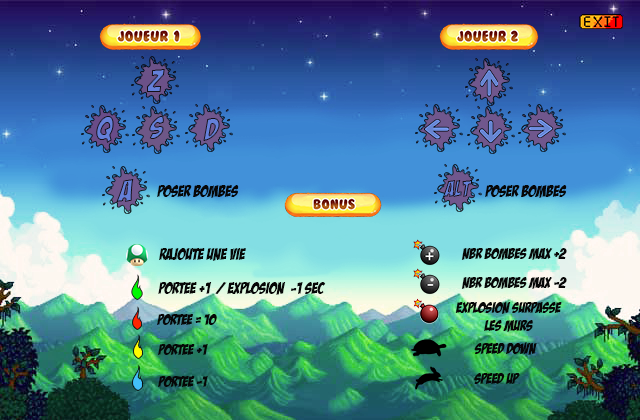
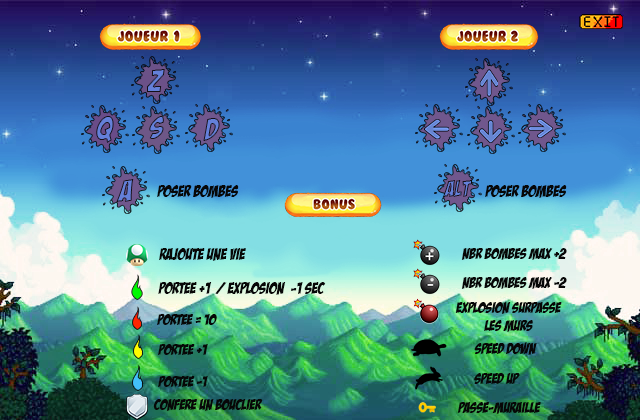
Dernière version

Changed region(s): [[0.1875, 0.9286, 0.4062, 1.0], [0.7188, 0.9595, 0.8438, 0.9905], [0.6562, 0.9595, 0.6875, 0.9905]]

diff --git a/src/bbman/Terrain.java b/src/bbman/Terrain.java
@@ -104,8 +104,8 @@ public class Terrain
 	
 	public void dessinerPlateau (Joueur [] joueur, int nb)
 	{
-		int orgx=this.longueur;
-		int orgy=this.hauteur;
+		int x=this.longueur;
+		int y=this.hauteur;
 
 		// On dessine le plateau de jeu en fonction de la valeur du type de la case
 		
@@ -115,82 +115,82 @@ public class Terrain
 			{	
 				if (this.plateau[i][j]==0) //Bloc vert
 				{	
-					StdDraw.picture((i*2*this.longueur)+orgx,(j*2*this.hauteur)+orgy,"vert.png",40,40);
+					StdDraw.picture((i*2*this.longueur)+x,(j*2*this.hauteur)+y,"vert.png",40,40);
 				}
 				else if (this.plateau[i][j]==2) //Bloc orange
 				{	
-					StdDraw.picture((i*2*this.longueur)+orgx,(j*2*this.hauteur)+orgy,"orange.png",40,40);
+					StdDraw.picture((i*2*this.longueur)+x,(j*2*this.hauteur)+y,"orange.png",40,40);
 				}
 				else if (this.plateau[i][j]==1) //Mur gris
 				{	
-					StdDraw.picture((i*2*this.longueur)+orgx,(j*2*this.hauteur)+orgy,"bloc.png",40,40);
+					StdDraw.picture((i*2*this.longueur)+x,(j*2*this.hauteur)+y,"bloc.png",40,40);
 				}
 				else if (this.plateau[i][j]>=100) //Bombe en cours d'explosion
 				{	
-					StdDraw.picture((i*2*this.longueur)+orgx,(j*2*this.hauteur)+orgy,"vert.png",40,40);
-					StdDraw.picture((i*2*this.longueur)+orgx, (j*2*this.hauteur)+orgy, "feu.png", 40, 40);
+					StdDraw.picture((i*2*this.longueur)+x,(j*2*this.hauteur)+y,"vert.png",40,40);
+					StdDraw.picture((i*2*this.longueur)+x, (j*2*this.hauteur)+y, "feu.png", 40, 40);
 				}
 				else if (this.plateau[i][j]==10) //Flamme bleue
 				{
-					StdDraw.picture((i*2*this.longueur)+orgx,(j*2*this.hauteur)+orgy,"vert.png",40,40);
-					StdDraw.picture((i*2*this.longueur)+orgx,(j*2*this.hauteur)+orgy,"flammebleue.png",40,40);
+					StdDraw.picture((i*2*this.longueur)+x,(j*2*this.hauteur)+y,"vert.png",40,40);
+					StdDraw.picture((i*2*this.longueur)+x,(j*2*this.hauteur)+y,"flammebleue.png",40,40);
 				}
 				else if (this.plateau[i][j]==11) //Flamme jaune
 				{
-					StdDraw.picture((i*2*this.longueur)+orgx,(j*2*this.hauteur)+orgy,"vert.png",40,40);
-					StdDraw.picture((i*2*this.longueur)+orgx,(j*2*this.hauteur)+orgy,"flammejaune.png",40,40);
+					StdDraw.picture((i*2*this.longueur)+x,(j*2*this.hauteur)+y,"vert.png",40,40);
+					StdDraw.picture((i*2*this.longueur)+x,(j*2*this.hauteur)+y,"flammejaune.png",40,40);
 				}
 				else if (this.plateau[i][j]==12) //Flamme rouge
 				{	
-					StdDraw.picture((i*2*this.longueur)+orgx,(j*2*this.hauteur)+orgy,"vert.png",40,40);
-					StdDraw.picture((i*2*this.longueur)+orgx,(j*2*this.hauteur)+orgy,"flammerouge.png",40,40);
+					StdDraw.picture((i*2*this.longueur)+x,(j*2*this.hauteur)+y,"vert.png",40,40);
+					StdDraw.picture((i*2*this.longueur)+x,(j*2*this.hauteur)+y,"flammerouge.png",40,40);
 				}
 				else if (this.plateau[i][j]==13) //Bombe rouge
 				{	
-					StdDraw.picture((i*2*this.longueur)+orgx,(j*2*this.hauteur)+orgy,"vert.png",40,40);
-					StdDraw.picture((i*2*this.longueur)+orgx,(j*2*this.hauteur)+orgy,"bomberouge.png",40,40);
+					StdDraw.picture((i*2*this.longueur)+x,(j*2*this.hauteur)+y,"vert.png",40,40);
+					StdDraw.picture((i*2*this.longueur)+x,(j*2*this.hauteur)+y,"bomberouge.png",40,40);
 				}
 				else if (this.plateau[i][j]==14) //+1 vie
 				{	
-					StdDraw.picture((i*2*this.longueur)+orgx,(j*2*this.hauteur)+orgy,"vert.png",40,40);
-					StdDraw.picture((i*2*this.longueur)+orgx,(j*2*this.hauteur)+orgy,"oneup.png",40,40);
+					StdDraw.picture((i*2*this.longueur)+x,(j*2*this.hauteur)+y,"vert.png",40,40);
+					StdDraw.picture((i*2*this.longueur)+x,(j*2*this.hauteur)+y,"oneup.png",40,40);
 				}
 				else if (this.plateau[i][j]==15) //Ralentir le joueur (tortue)
 				{	
-					StdDraw.picture((i*2*this.longueur)+orgx,(j*2*this.hauteur)+orgy,"vert.png",40,40);
-					StdDraw.picture((i*2*this.longueur)+orgx,(j*2*this.hauteur)+orgy,"slow.png",40,40);
+					StdDraw.picture((i*2*this.longueur)+x,(j*2*this.hauteur)+y,"vert.png",40,40);
+					StdDraw.picture((i*2*this.longueur)+x,(j*2*this.hauteur)+y,"slow.png",40,40);
 				}
 				else if (this.plateau[i][j]==16) //Accéler le joueur (lièvre)
 				{	
-					StdDraw.picture((i*2*this.longueur)+orgx,(j*2*this.hauteur)+orgy,"vert.png",40,40);
-					StdDraw.picture((i*2*this.longueur)+orgx,(j*2*this.hauteur)+orgy,"speed.png",40,40);
+					StdDraw.picture((i*2*this.longueur)+x,(j*2*this.hauteur)+y,"vert.png",40,40);
+					StdDraw.picture((i*2*this.longueur)+x,(j*2*this.hauteur)+y,"speed.png",40,40);
 				}
 				else if (this.plateau[i][j]==17) //+2 bombes
 				{	
-					StdDraw.picture((i*2*this.longueur)+orgx,(j*2*this.hauteur)+orgy,"vert.png",40,40);
-					StdDraw.picture((i*2*this.longueur)+orgx,(j*2*this.hauteur)+orgy,"bombeplus.png",40,40);
+					StdDraw.picture((i*2*this.longueur)+x,(j*2*this.hauteur)+y,"vert.png",40,40);
+					StdDraw.picture((i*2*this.longueur)+x,(j*2*this.hauteur)+y,"bombeplus.png",40,40);
 				}
 				else if (this.plateau[i][j]==18) //-2 bombes
 				{	
-					StdDraw.picture((i*2*this.longueur)+orgx,(j*2*this.hauteur)+orgy,"vert.png",40,40);
-					StdDraw.picture((i*2*this.longueur)+orgx,(j*2*this.hauteur)+orgy,"bombemoins.png",40,40);
+					StdDraw.picture((i*2*this.longueur)+x,(j*2*this.hauteur)+y,"vert.png",40,40);
+					StdDraw.picture((i*2*this.longueur)+x,(j*2*this.hauteur)+y,"bombemoins.png",40,40);
 				}
 				else if (this.plateau[i][j]==19) //Flamme verte
 				{	
-					StdDraw.picture((i*2*this.longueur)+orgx,(j*2*this.hauteur)+orgy,"vert.png",40,40);
-					StdDraw.picture((i*2*this.longueur)+orgx,(j*2*this.hauteur)+orgy,"flammeverte.png",40,40);
+					StdDraw.picture((i*2*this.longueur)+x,(j*2*this.hauteur)+y,"vert.png",40,40);
+					StdDraw.picture((i*2*this.longueur)+x,(j*2*this.hauteur)+y,"flammeverte.png",40,40);
 				}
 				
 				else if (this.plateau[i][j]==20) //Passe muraille
 				{	
-					StdDraw.picture((i*2*this.longueur)+orgx,(j*2*this.hauteur)+orgy,"vert.png",40,40);
-					StdDraw.picture((i*2*this.longueur)+orgx,(j*2*this.hauteur)+orgy,"cle.png",40,40);
+					StdDraw.picture((i*2*this.longueur)+x,(j*2*this.hauteur)+y,"vert.png",40,40);
+					StdDraw.picture((i*2*this.longueur)+x,(j*2*this.hauteur)+y,"cle.png",40,40);
 				}
 				
 				else if (this.plateau[i][j]==21) //Bouclier
 				{	
-					StdDraw.picture((i*2*this.longueur)+orgx,(j*2*this.hauteur)+orgy,"vert.png",40,40);
-					StdDraw.picture((i*2*this.longueur)+orgx,(j*2*this.hauteur)+orgy,"bouclier.png",40,40);
+					StdDraw.picture((i*2*this.longueur)+x,(j*2*this.hauteur)+y,"vert.png",40,40);
+					StdDraw.picture((i*2*this.longueur)+x,(j*2*this.hauteur)+y,"bouclier.png",40,40);
 				}
 			}
 		}

diff --git a/src/bbman/main.java b/src/bbman/main.java
@@ -8,20 +8,48 @@ public class main
 {		
 	public static void main(String[] args) 
 	{	
+		// Initialisation des variables
 		int nbColonnes=21;
 		int nbLignes=17;
-		int longueurCase=20;
-		int hauteurCase=20;
+		int longueurCase=20; // en pixels
+		int hauteurCase=20; // en pixels
 		int nbJoueurs=2;
 		
-		StdDraw.setCanvasSize(longueurCase*nbColonnes*2,hauteurCase*nbLignes*2);
-		StdDraw.setXscale(0,longueurCase*nbColonnes*2);
-		StdDraw.setYscale(0,hauteurCase*nbLignes*2);
-		
+		// Musique de fond du jeu
 		Audio sonjeu = new Audio("jeu.wav");
 		sonjeu.play();
+		
+		// Création du terrain et des joueurs
+		Terrain terrain = new Terrain(nbColonnes,nbLignes,longueurCase,hauteurCase);
+		Joueur[] joueur = new Joueur[nbJoueurs] ;
+		
+		// Initialisation du terrain et des joueurs
+		initialisation(longueurCase, nbColonnes, hauteurCase, nbLignes, nbJoueurs, joueur, terrain);
+		
+		// Affichage du menu
+		menu(longueurCase, nbColonnes, hauteurCase, nbLignes, sonjeu);
+		
+		// Plateau initial
+		terrain.dessinerPlateau(joueur,nbJoueurs);
+		
+		// Mise à jour en continu du terrain
+		miseAJour(joueur, nbJoueurs, terrain, sonjeu);
+		
+		// Lorsqu'un des deux joueurs n'est plus en vie
+		finDePartie(joueur, terrain, sonjeu);
+	}
 
+	
+	
+	
+	
+	// Menu
+	
+	public static void menu(int longueurCase, int nbColonnes, int hauteurCase ,int nbLignes, Audio sonjeu)
+	{
 		StdDraw.picture(longueurCase*nbColonnes,hauteurCase*nbLignes,"menu.png",longueurCase*nbColonnes*2,hauteurCase*nbLignes*2);
+		StdDraw.picture(30, 30, "couperson.png", 30, 30);
+		
 		boolean commencerJeu = false;
 		boolean commandes = false;
 		
@@ -50,6 +78,7 @@ public class main
 				{
 					commandes = true;
 					StdDraw.picture(longueurCase*nbColonnes,hauteurCase*nbLignes,"commandes.png",longueurCase*nbColonnes*2,hauteurCase*nbLignes*2);
+					StdDraw.picture(30, 30, "couperson.png", 30, 30);
 				}
 			}
 			
@@ -62,26 +91,55 @@ public class main
 				{
 					commandes = false;
 					StdDraw.picture(longueurCase*nbColonnes,hauteurCase*nbLignes,"menu.png",longueurCase*nbColonnes*2,hauteurCase*nbLignes*2);
+					StdDraw.picture(30, 30, "couperson.png", 30, 30);
+				}
+			}
+			
+			if(StdDraw.mousePressed())
+			{
+				if(StdDraw.mouseX()>15
+				&& StdDraw.mouseX()<45
+				&& StdDraw.mouseY()>15
+				&& StdDraw.mouseY()<45)
+				{
+					sonjeu.stop();
 				}
 			}
 			
 		}
-		// Création du terrain et des joueurs
-		
-		Terrain terrain = new Terrain(nbColonnes,nbLignes,longueurCase,hauteurCase);
-		Joueur[] joueur = new Joueur[nbJoueurs] ;
+	}
+	
+	// Initialisation StdDraw + joueur/terrain
+	
+	public static void initialisation(int longueurCase, int nbColonnes, int hauteurCase ,int nbLignes, int nbJoueurs, Joueur[] joueur, Terrain terrain)
+	{
+		StdDraw.setCanvasSize(longueurCase*nbColonnes*2,hauteurCase*nbLignes*2);
+		StdDraw.setXscale(0,longueurCase*nbColonnes*2);
+		StdDraw.setYscale(0,hauteurCase*nbLignes*2);
 	
 		for (int i=0;i<nbJoueurs;i++)
 		{	
 			joueur[i]=new Joueur(terrain);
 			joueur[i].positionInitiale(i+1,nbColonnes,nbLignes,longueurCase,hauteurCase);
 		}
-		
-		
-		terrain.dessinerPlateau(joueur,nbJoueurs);
-
+	}
+	
+	// Mise à jour plateau de jeu
+	
+	public static void miseAJour(Joueur[] joueur, int nbJoueurs, Terrain terrain, Audio sonjeu)
+	{
 		while(joueurEnVie(joueur))
 		{	
+			if(StdDraw.mousePressed())
+			{
+				if(StdDraw.mouseX()>15
+				&& StdDraw.mouseX()<45
+				&& StdDraw.mouseY()>15
+				&& StdDraw.mouseY()<45)
+				{
+					sonjeu.stop();
+				}
+			}
 			int mouvement = deplacement(joueur, nbJoueurs,terrain);
 			
 			for (int i=0; i<nbJoueurs; i++)
@@ -98,17 +156,12 @@ public class main
 			StdDraw.show();
 			StdDraw.pause(5);
 		}
-		
-		// Lorsqu'un des deux joueurs n'est plus en vie
-		sonjeu.stop();
-		Audio sonperdu = new Audio("perdu.wav");
-		sonperdu.play();
-		finDePartie(joueur, terrain);
 	}
-
+	
+	
 	// Key Listener
 	
-	public static int deplacement(Joueur [] joueur, int nbJoueurs, Terrain terrain)
+	public static int deplacement(Joueur[] joueur, int nbJoueurs, Terrain terrain)
 	{	
 		int isTyped=0;
 	
@@ -181,8 +234,11 @@ public class main
 	
 	// Sinon on finit la partie
 	
-	public static void finDePartie(Joueur[] joueur, Terrain terrain)
+	public static void finDePartie(Joueur[] joueur, Terrain terrain, Audio sonjeu)
 	{
+		sonjeu.stop();
+		Audio sonperdu = new Audio("perdu.wav");
+		sonperdu.play();
 		
 		String joueurGagnant;
 		if(joueur[0].getViesRestante()<=0)
@@ -269,7 +325,7 @@ public class main
 				}
 				if(joueur[i].getBouclier() == 1)
 				{
-					StdDraw.picture(20, 350, "cle.png", 20, 20);
+					StdDraw.picture(20, 350, "bouclier.png", 20, 20);
 					StdDraw.text(22, 330, "✓");
 				}
 			}
@@ -312,7 +368,7 @@ public class main
 				}
 				if(joueur[i].getBouclier() == 1)
 				{
-					StdDraw.picture(820, 310, "cle.png", 20, 20);
+					StdDraw.picture(820, 310, "bouclier.png", 20, 20);
 					StdDraw.text(822, 290, "✓");
 				}
 			}

diff --git a/src/bbman/Bombe.java b/src/bbman/Bombe.java
@@ -156,7 +156,7 @@ public class Bombe
 	{
 		int conditionArret = (int)(Math.random()*100);
 		int type_bonus = 0;
-		if (conditionArret<=100)
+		if (conditionArret<=20)
 		{
 			int newTest=(int)(Math.random()*12);
 			switch(newTest)
@@ -214,7 +214,7 @@ public class Bombe
 	}
 
 	
-// Lorsque la bombe explose 
+	// Lorsque la bombe explose 
 	
 	public Terrain boum(Terrain terrain, Joueur[] joueur, boolean bombeDeBase)
 	{	
@@ -249,7 +249,7 @@ public class Bombe
 				}
 			}
 			
-			else if(terrain.getPlateau(this.x+i,this.y)>=10 && terrain.getPlateau(this.x+i,this.y)<=19) // S'il y avait déjà un bonus sur la case
+			else if(terrain.getPlateau(this.x+i,this.y)>=10 && terrain.getPlateau(this.x+i,this.y)<=21) // S'il y avait déjà un bonus sur la case
 			{
 				terrain.setPlateau(this.x+i, this.y, terrain.getPlateau(this.x+i,this.y));
 			}
@@ -302,7 +302,7 @@ public class Bombe
 				}
 			}
 			
-			else if(terrain.getPlateau(this.x,this.y-i)>=10 && terrain.getPlateau(this.x,this.y-i)<=19)
+			else if(terrain.getPlateau(this.x,this.y-i)>=10 && terrain.getPlateau(this.x,this.y-i)<=21)
 			{
 				terrain.setPlateau(this.x, this.y-i, terrain.getPlateau(this.x,this.y-i));
 			}
@@ -324,7 +324,7 @@ public class Bombe
 			
 			if(bombeDeBase)
 			{
-			verifBombeDansPortee(this.x,this.y-i,joueur,terrain);
+				verifBombeDansPortee(this.x,this.y-i,joueur,terrain);
 			}
 			
 		}
@@ -356,7 +356,7 @@ public class Bombe
 
 			}
 			
-			else if(terrain.getPlateau(this.x-i,this.y)>=10 && terrain.getPlateau(this.x-i,this.y)<=19)
+			else if(terrain.getPlateau(this.x-i,this.y)>=10 && terrain.getPlateau(this.x-i,this.y)<=21)
 			{
 				terrain.setPlateau(this.x-i, this.y, terrain.getPlateau(this.x-i,this.y));
 			}
@@ -409,7 +409,7 @@ public class Bombe
 				}
 			}
 			
-			else if(terrain.getPlateau(this.x,this.y+i)>=10 && terrain.getPlateau(this.x,this.y+i)<=19)
+			else if(terrain.getPlateau(this.x,this.y+i)>=10 && terrain.getPlateau(this.x,this.y+i)<=21)
 			{
 				terrain.setPlateau(this.x, this.y+i, terrain.getPlateau(this.x,this.y+i));
 			}

diff --git a/src/bbman/Joueur.java b/src/bbman/Joueur.java
@@ -268,7 +268,6 @@ public class Joueur
 				break;
 				
 			case 21:
-				this.setViesRestante(this.getViesRestante()+1);
 				this.bouclier = 1;
 				break;
 		}
